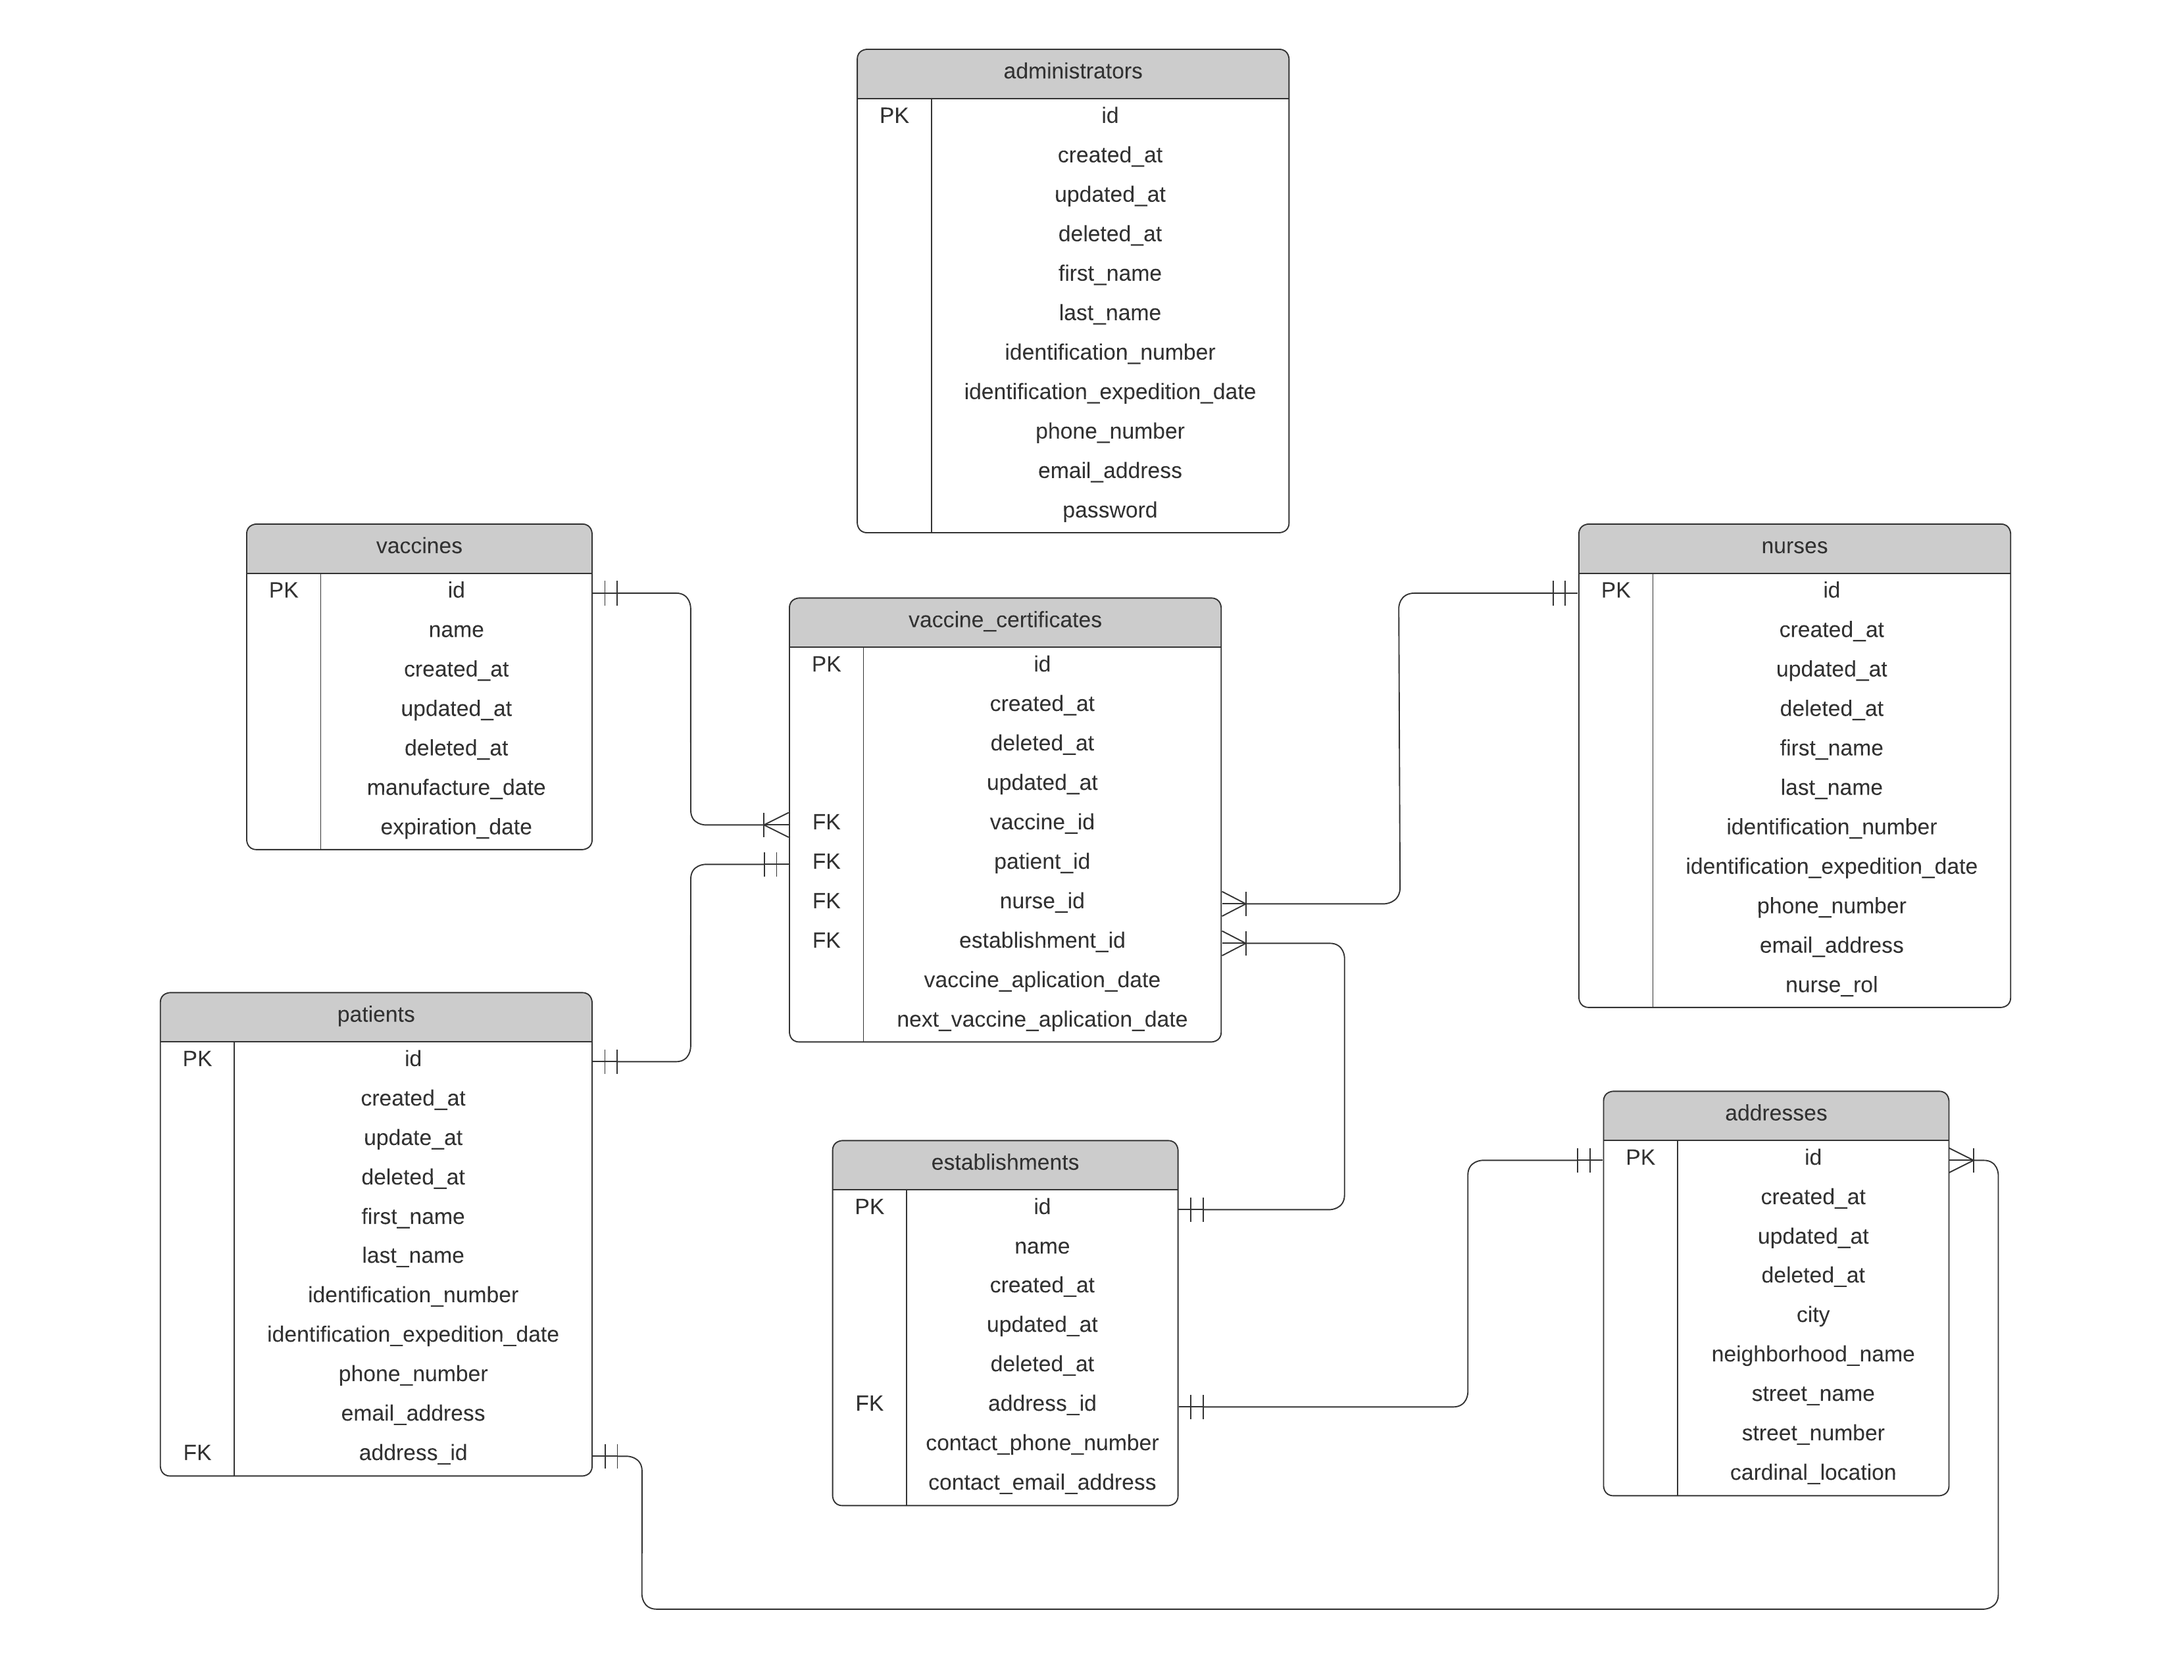
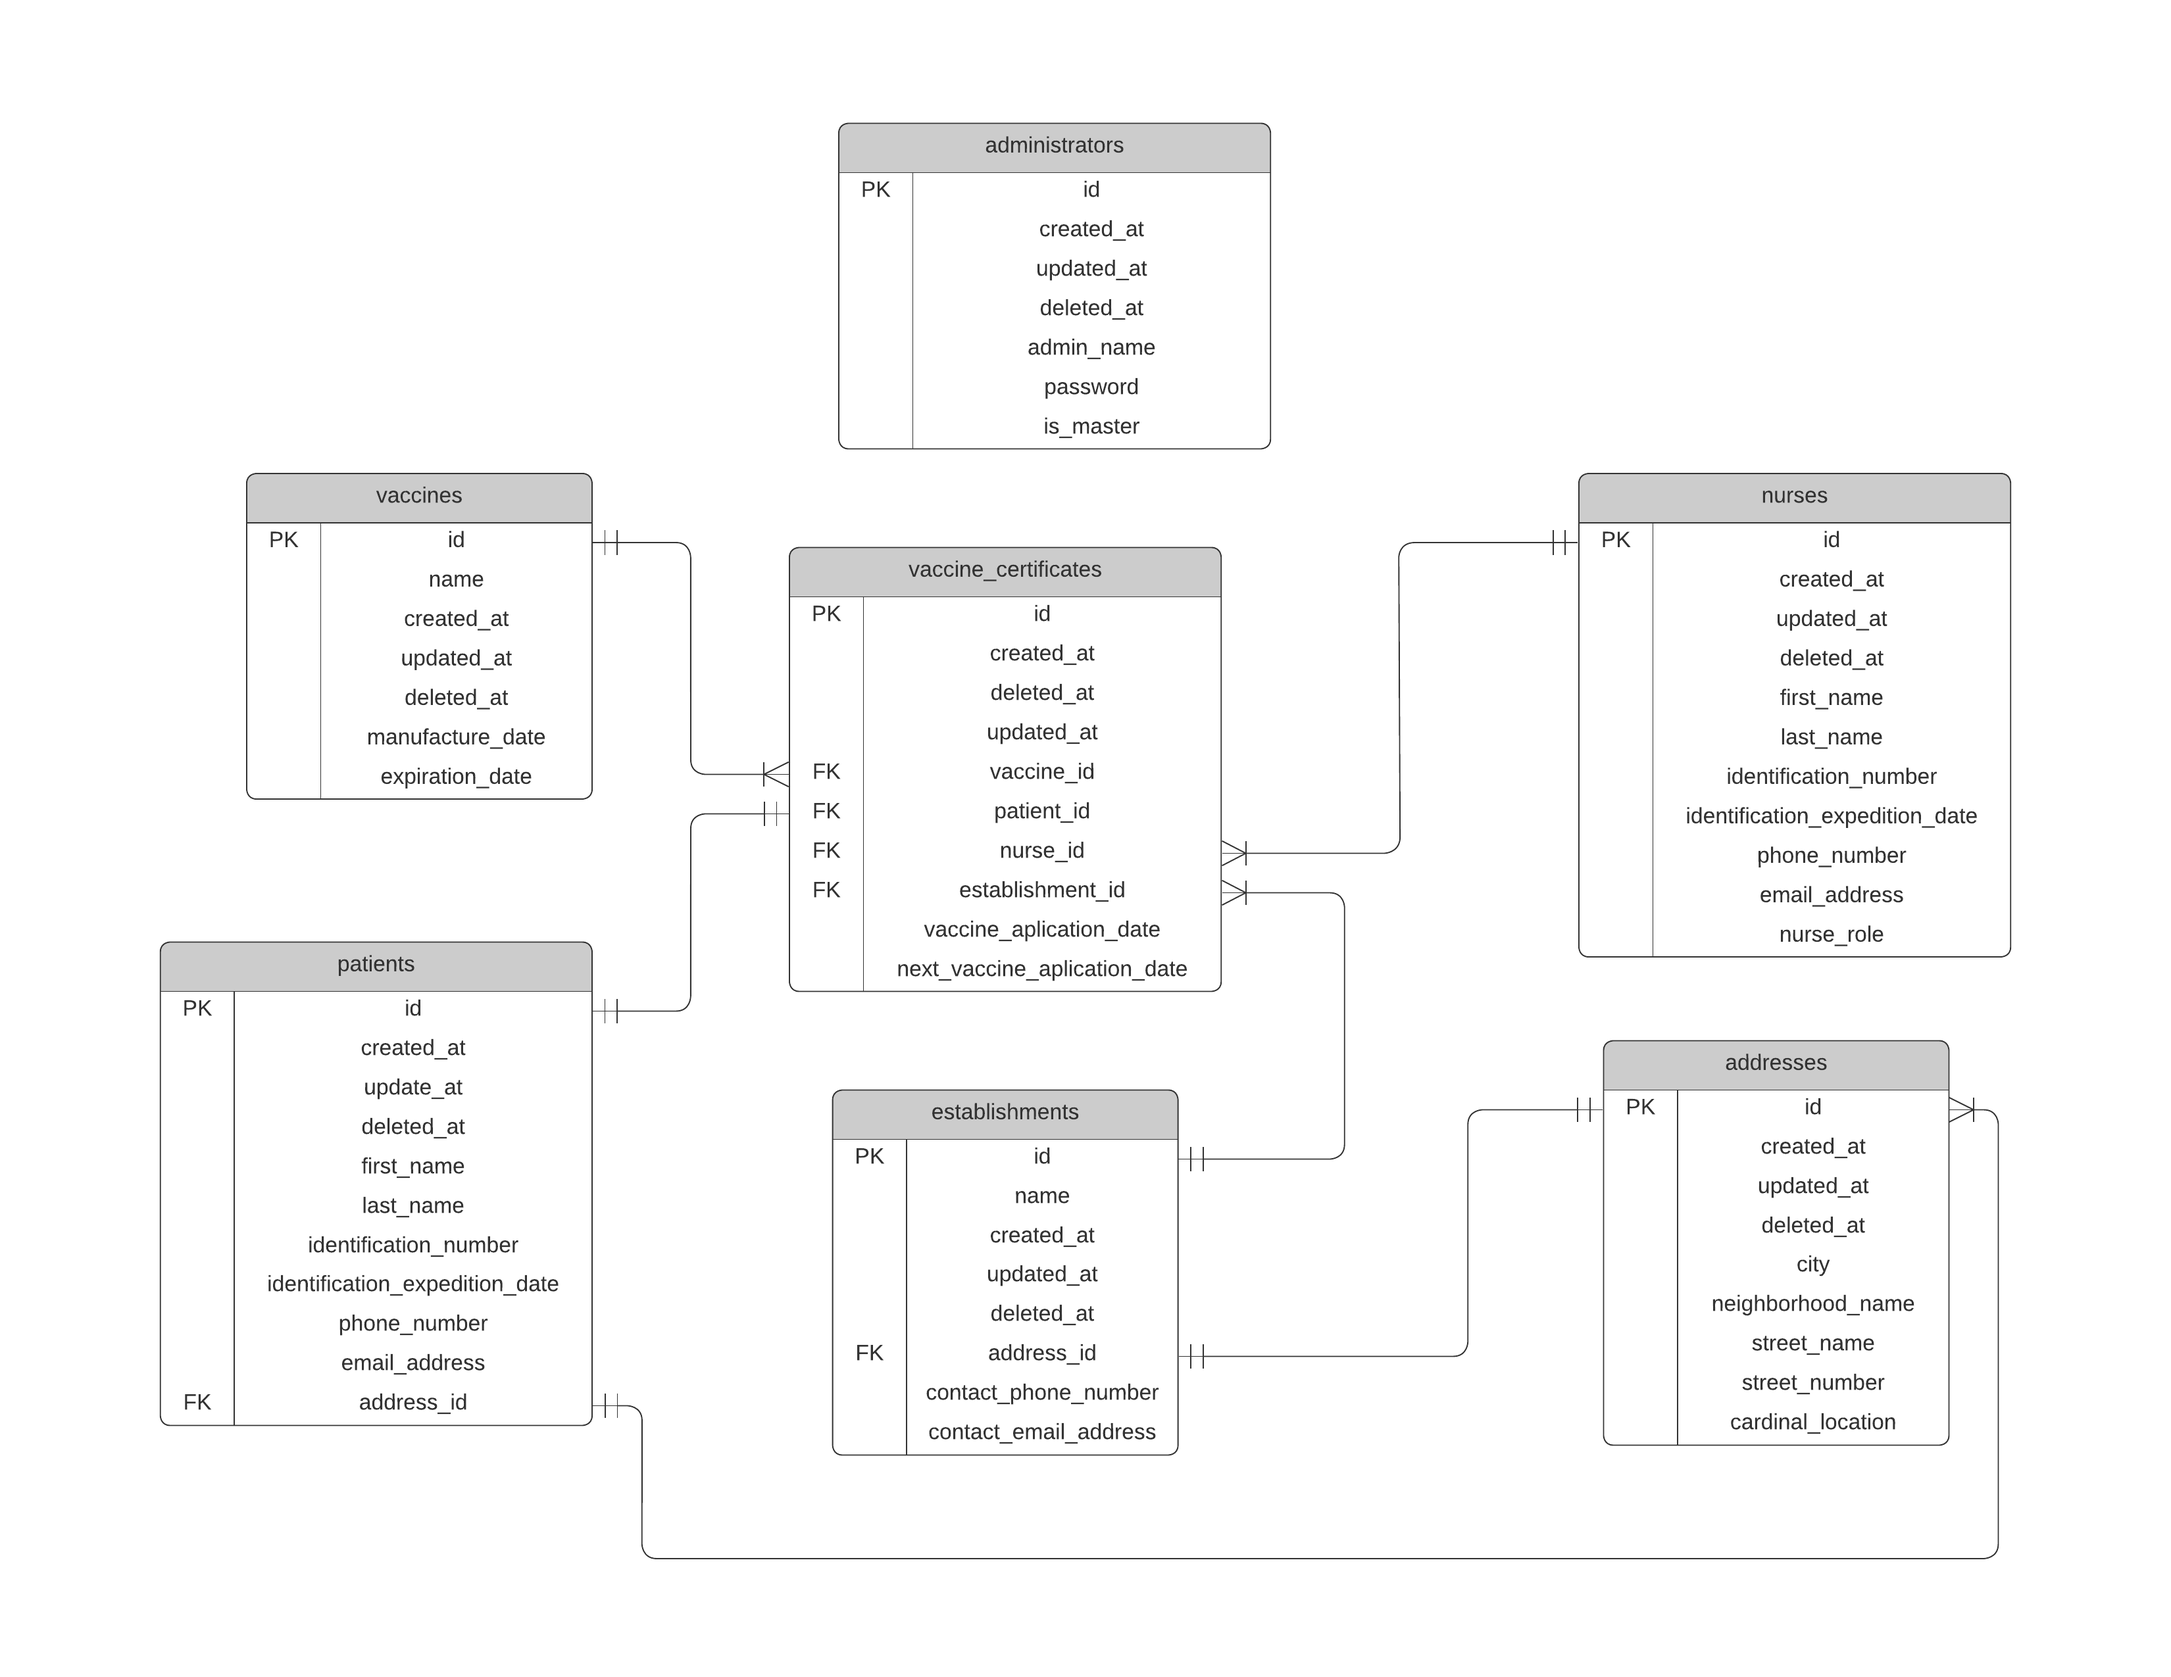
Model: nurse's model nurseRole renamed

diff --git a/model/administrator.go b/model/administrator.go
@@ -19,7 +19,7 @@ func (a *Administrator) BeforeSave(tx *gorm.DB) (err error) {
 	r := tx.First(&ar, a.ID).Error
 
 	switch {
-	case r != nil, a.Password != ar.Password:
+	case r != nil, (ar.Password != "" && a.Password != ar.Password):
 		h, err := encryptPassword(a.Password)
 		if err != nil {
 			return err

diff --git a/model/nurse.go b/model/nurse.go
@@ -2,6 +2,6 @@ package model
 
 type Nurse struct {
 	Person
-	NurseRol            string               `json:"nurse_rol"`
+	NurseRole           string               `json:"nurse_role"`
 	VaccineCertificates []VaccineCertificate `json:"vaccine_certificates"`
 }
